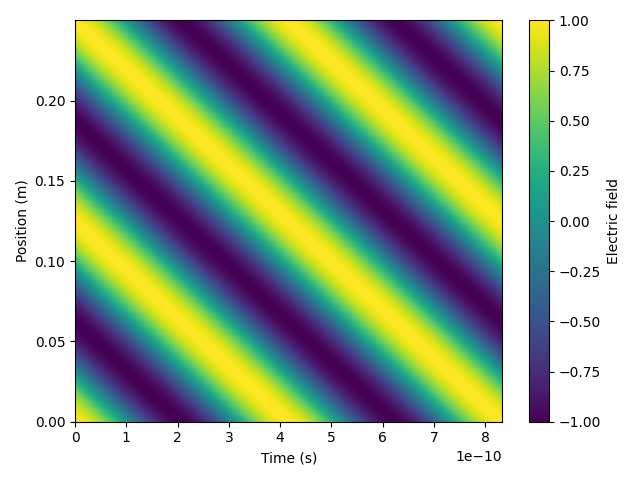
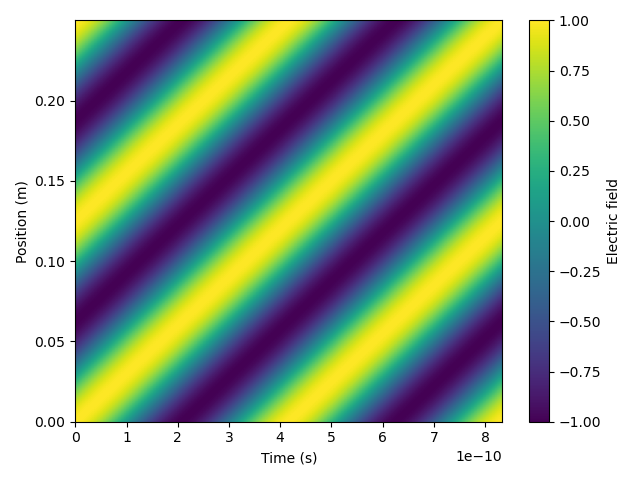
fixed sign errror

diff --git a/007_2dwave/em_plane_wave.py b/007_2dwave/em_plane_wave.py
@@ -12,7 +12,7 @@ x=n.linspace(0,2*wavelength,num=1000)
 
 ct,cx=n.meshgrid(t,x)
 
-plt.pcolormesh(ct,cx,n.real(n.exp(1j*2.0*n.pi*cx/wavelength)*n.exp(1j*2.0*n.pi*f*ct)),vmin=-1,vmax=1)
+plt.pcolormesh(ct,cx,n.real(n.exp(-1j*2.0*n.pi*cx/wavelength)*n.exp(1j*2.0*n.pi*f*ct)),vmin=-1,vmax=1)
 cb=plt.colorbar()
 cb.set_label("Electric field")
 plt.xlabel("Time (s)")
